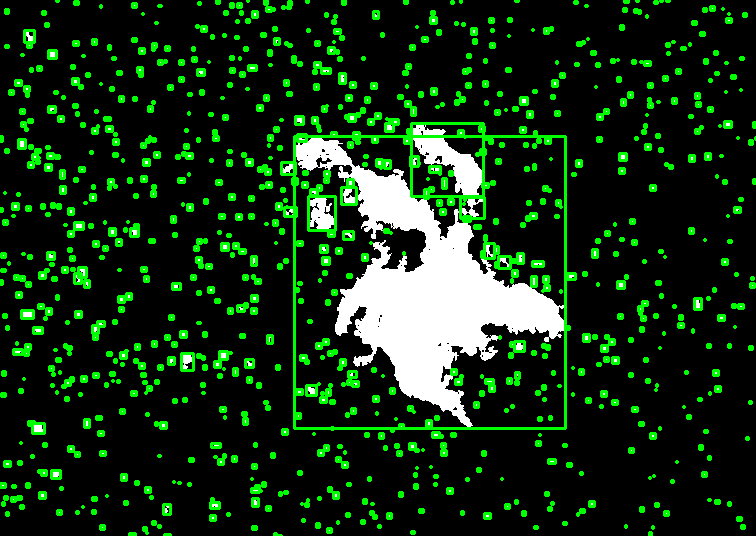
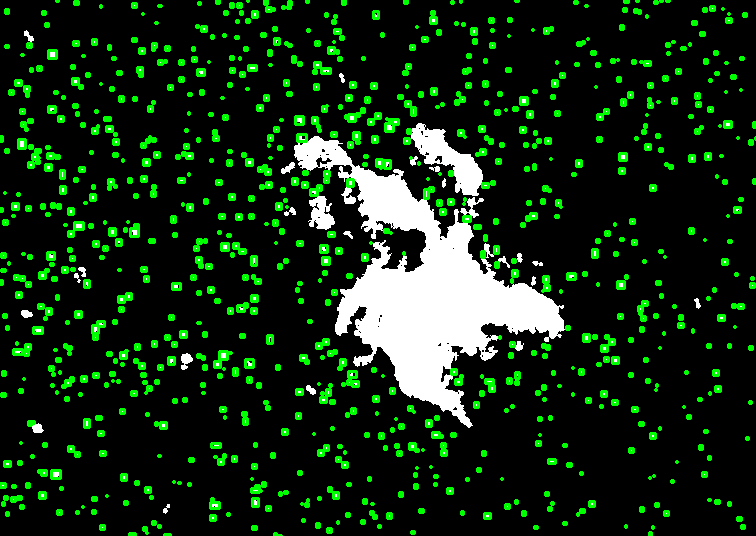
feat(tools): Add script to generate multiple pictures

diff --git a/tools/generate_picutre.py b/tools/generate_picutre.py
@@ -1,0 +1,73 @@
+import os
+import random
+from typing import Dict, Tuple
+
+from src.picture_manager import PictureManager
+from src.tracking import Tracking
+
+import sys
+
+
+class GeneratePicture:
+    def __init__(self, image_path: str, nb_picture_to_generate: int):
+        self.image_path = image_path
+        self.nb_picture_to_generate = nb_picture_to_generate
+
+    @staticmethod
+    def generate_new_stars(
+        stars: Dict[int, Tuple[float, float, float, float]],
+        max_random_space=5,
+    ) -> Dict[int, Tuple[float, float, float, float]]:
+        new_stars = {}
+        for key, value in stars.items():
+            random_space = random.randint(1, max_random_space)
+            random_position = random.choice([1, 2, 3, 4])
+            match random_position:
+                case 1:
+                    new_stars[key] = (
+                        value[0] + random_space,
+                        value[1] + random_space,
+                        value[2],
+                        value[3],
+                    )
+                case 2:
+                    new_stars[key] = (
+                        value[0] - random_space,
+                        value[1] - random_space,
+                        value[2],
+                        value[3],
+                    )
+                case 3:
+                    new_stars[key] = (
+                        value[0],
+                        value[1],
+                        value[2] + random_space,
+                        value[3] + random_space,
+                    )
+                case 4:
+                    new_stars[key] = (
+                        value[0],
+                        value[1],
+                        value[2] - random_space,
+                        value[3] - random_space,
+                    )
+        return new_stars
+
+    def run(self):
+        if not os.path.exists("generate"):
+            os.makedirs("generate")
+        img = PictureManager.load_image(self.image_path)
+        filtered_image = PictureManager.apply_filter(img)
+        stars = Tracking.find_coordinate_of_all_stars(filtered_image)
+        stars = Tracking.remove_false_positive(stars)
+        for i in range(self.nb_picture_to_generate):
+            stars = self.generate_new_stars(stars)
+            new_picture = PictureManager.generate_picture(
+                stars, filtered_image.shape[1], filtered_image.shape[0]
+            )
+            PictureManager.save_image(new_picture, f"generate/picture_{i}.png")
+
+
+if __name__ == "__main__":
+    run = GeneratePicture(sys.argv[1], int(sys.argv[2]))
+    run.run()

diff --git a/src/picture_manager.py b/src/picture_manager.py
@@ -26,10 +26,22 @@ class PictureManager:
     def display_tracking_stars(
         image: np.ndarray, stars: Dict[int, Tuple[float, float, float, float]]
     ) -> np.ndarray:
-        # before redo the image in color to accept to display the rectangles
         image = cv2.cvtColor(image, cv2.COLOR_GRAY2BGR)
         for i, (x1, x2, y1, y2) in stars.items():
             cv2.rectangle(image, (int(x1), int(y1)), (int(x2), int(y2)), (0, 255, 0), 2)
+        return image
+
+    @staticmethod
+    def generate_picture(
+        stars: Dict[int, Tuple[float, float, float, float]],
+        image_w: float,
+        image_h: float,
+    ) -> np.ndarray:
+        image = np.zeros((int(image_h), int(image_w), 3), dtype=np.uint8)
+        for x1, x2, y1, y2 in stars.values():
+            cv2.rectangle(
+                image, (int(x1), int(y1)), (int(x2), int(y2)), (255, 255, 255), -1
+            )
         return image
 
     @staticmethod

diff --git a/src/tracking.py b/src/tracking.py
@@ -21,3 +21,13 @@ class Tracking:
             coords_dict[i] = (x1, x2, y1, y2)
 
         return coords_dict
+
+    @staticmethod
+    def remove_false_positive(
+        stars: Dict[int, Tuple[float, float, float, float]], max_air: float = 10
+    ) -> Dict[int, Tuple[float, float, float, float]]:
+        new_stars = {}
+        for key, value in stars.items():
+            if value[1] - value[0] < max_air and value[3] - value[2] < max_air:
+                new_stars[key] = value
+        return new_stars

diff --git a/src/main.py b/src/main.py
@@ -13,6 +13,7 @@ class Main:
         filtered_image = PictureManager.apply_filter(img)
         PictureManager.save_image(filtered_image, "output_image_black_and_white.png")
         stars = Tracking.find_coordinate_of_all_stars(filtered_image)
+        stars = Tracking.remove_false_positive(stars)
         filtered_image = PictureManager.display_tracking_stars(filtered_image, stars)
         PictureManager.save_image(filtered_image, "output_image_tracking.png")
         print(stars)

diff --git a/README.md b/README.md
@@ -20,3 +20,16 @@
 
 ![](assets/output_image_tracking.png)
 
+# IV - Generate new picture
+
+---
+
+```bash
+export PYTHONPATH=$(pwd)
+python3 tools/generate_picutre.py assets/test_1.png 5
+```
+
+![](generate/picture_0.png)
+![](generate/picture_1.png)
+
+# V - Apply tracking of all pictures
